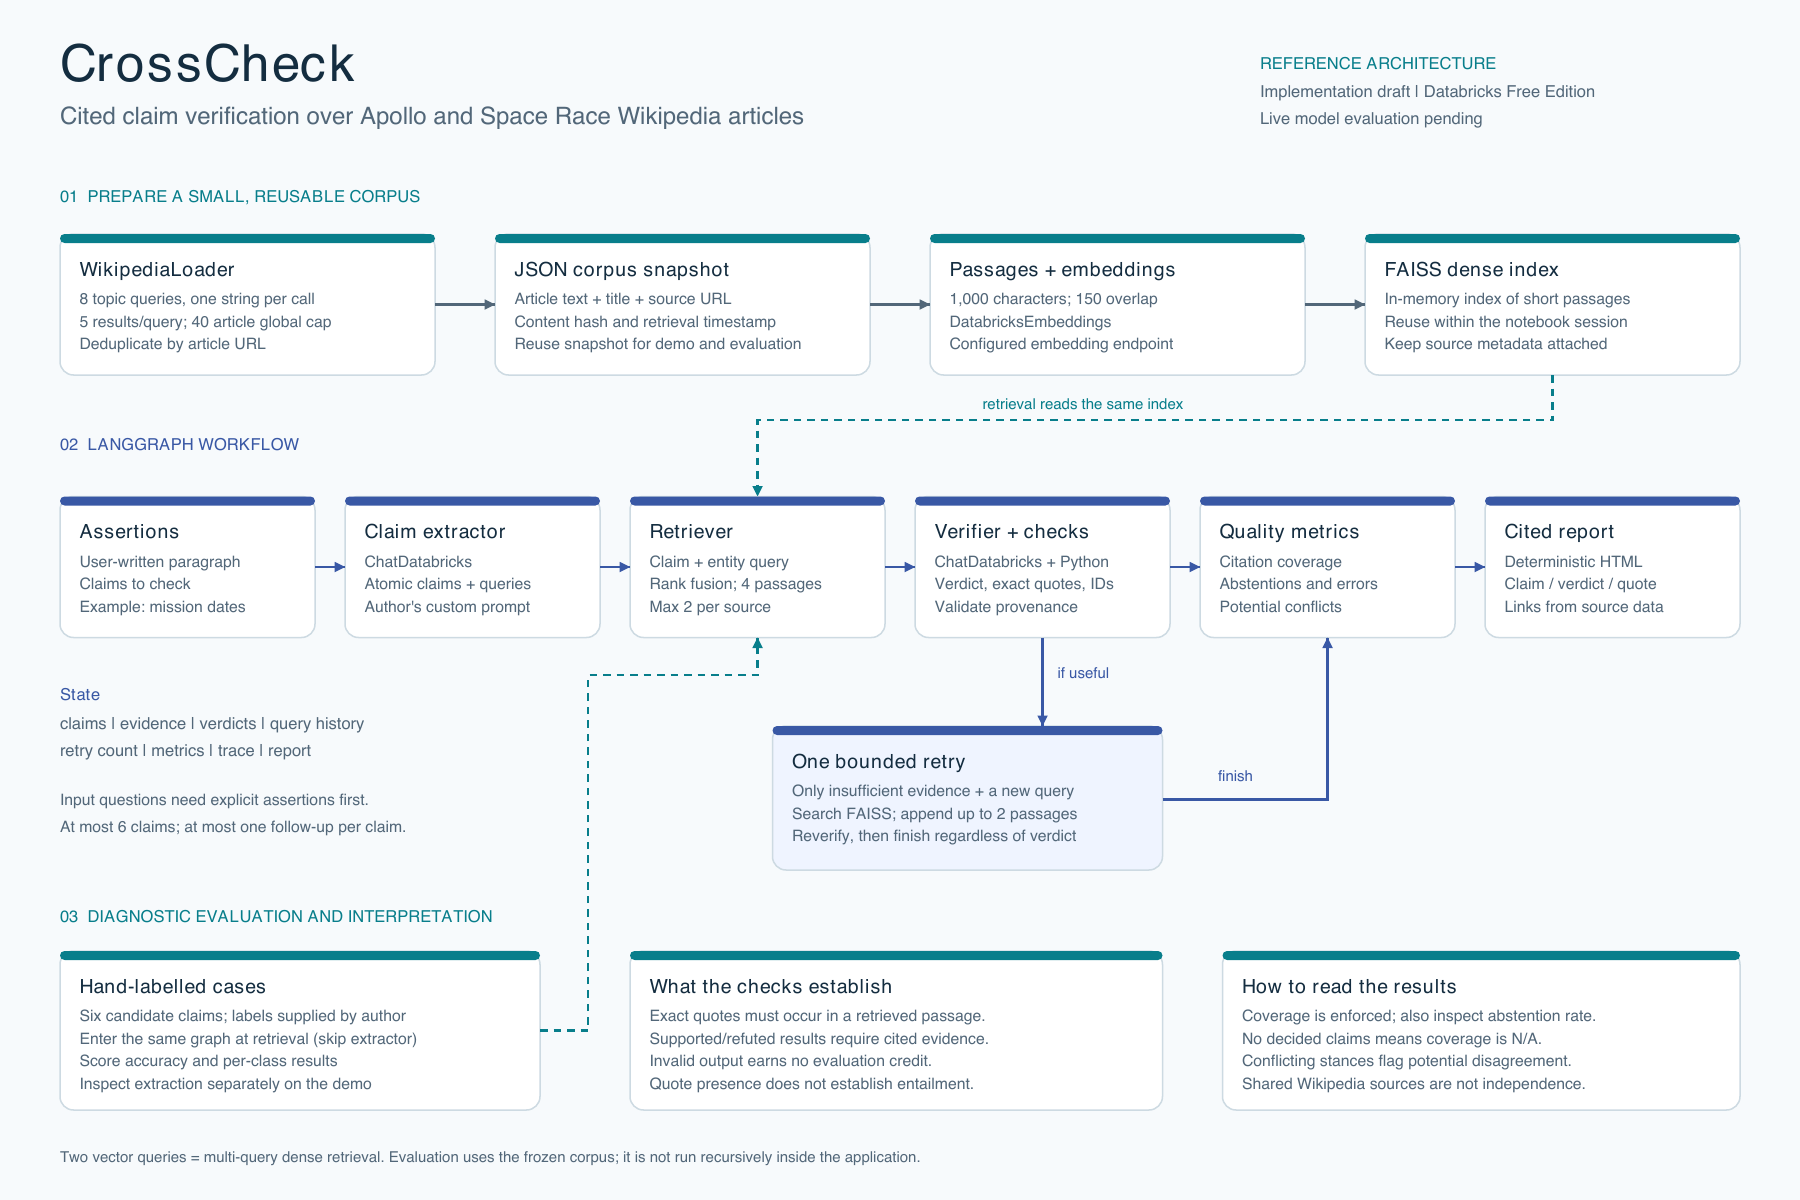
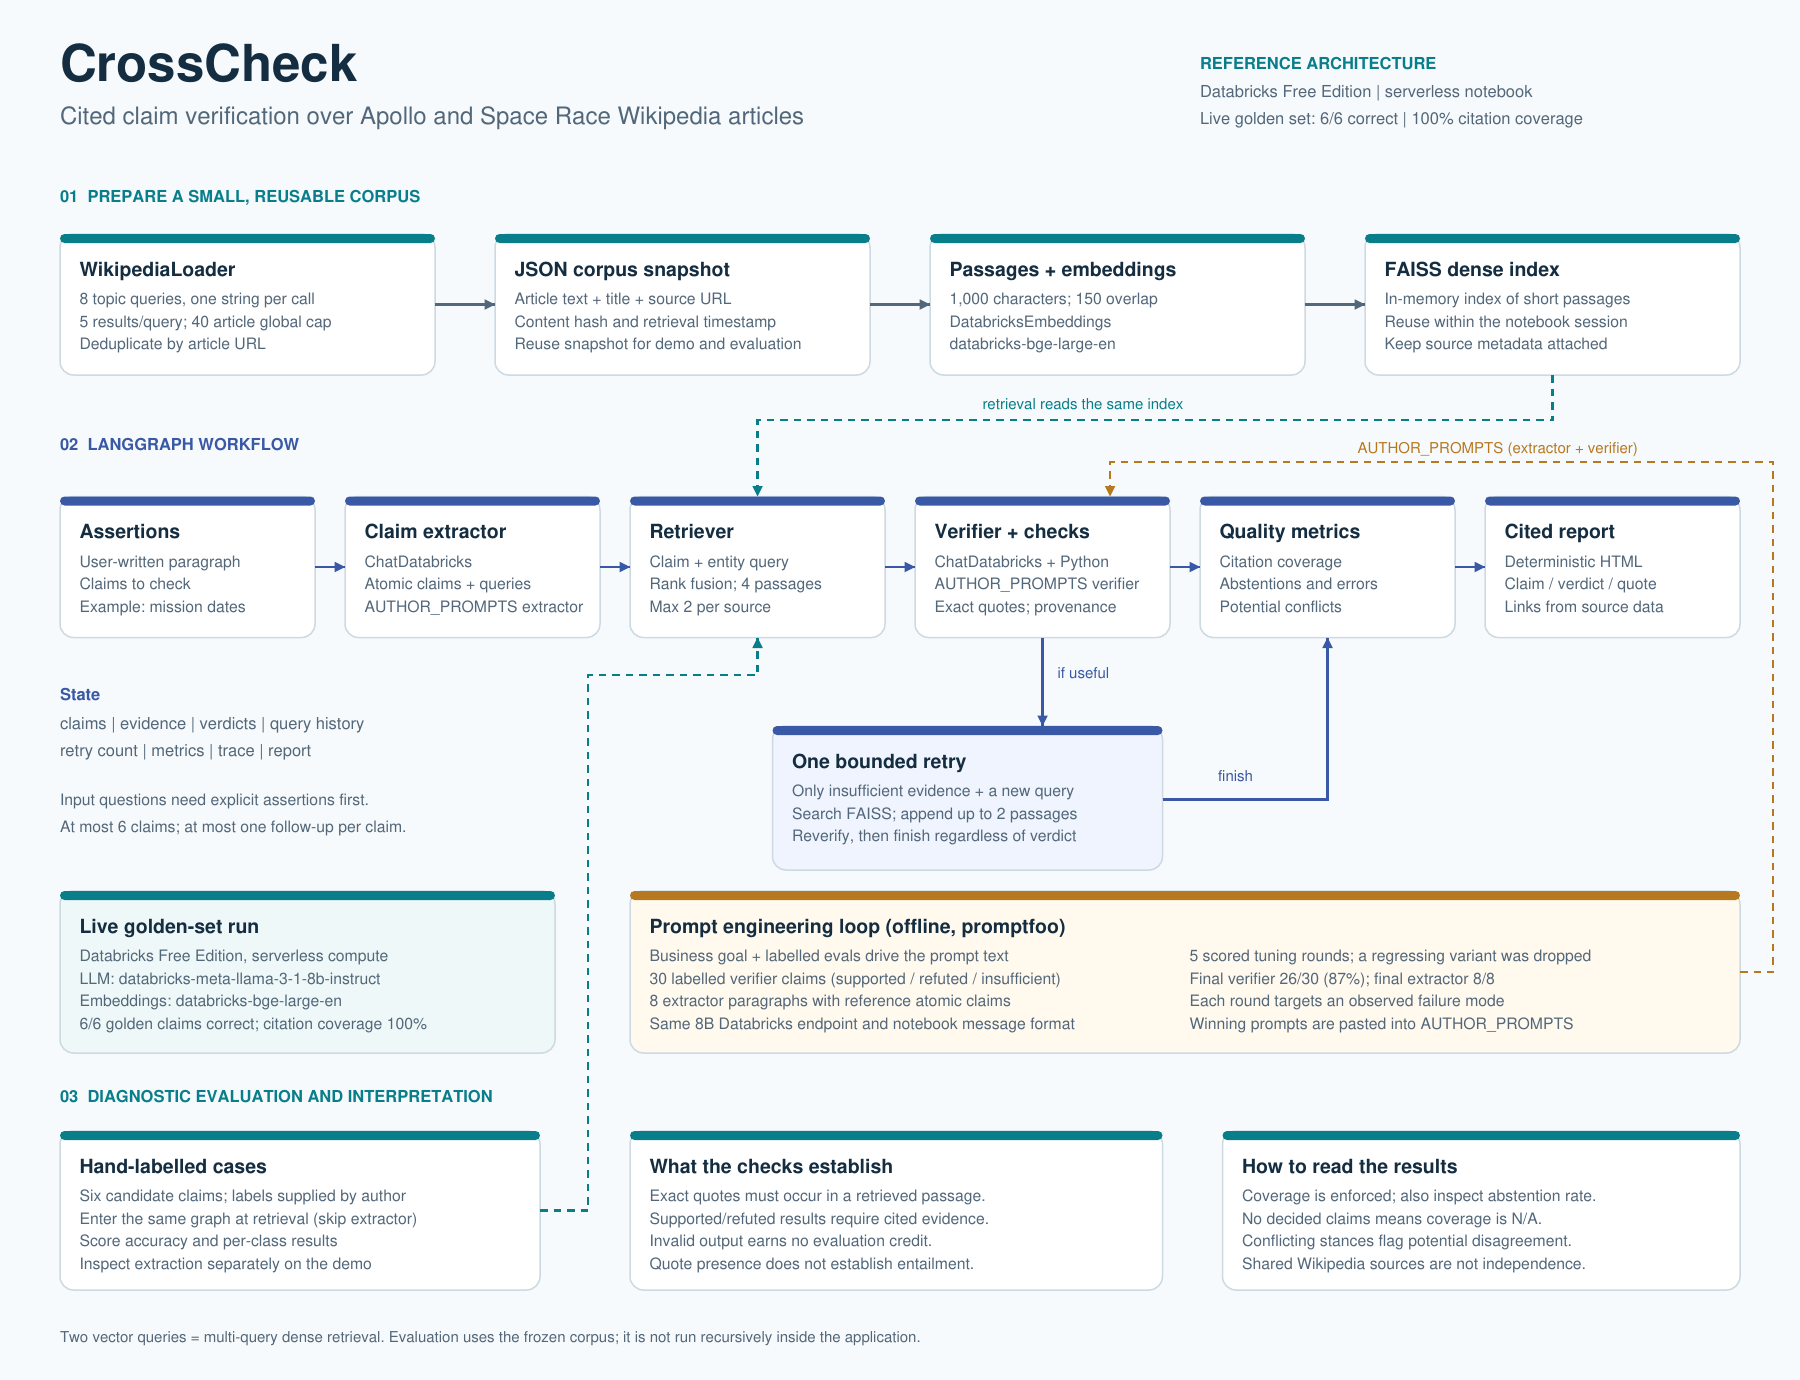
Update reference architecture: promptfoo prompt loop and live Databricks result
- Remove 'Implementation draft' / 'Live model evaluation pending' wording
- Add offline promptfoo prompt-engineering loop feeding AUTHOR_PROMPTS
  (30 verifier claims, 8 extractor paragraphs, 5 rounds; verifier 26/30, extractor 8/8)
- Add live golden-set result on Databricks Free Edition serverless (6/6, 100% coverage)
- Move Wikipedia user-agent into load_corpus so the embedded notebook cell
  matches crosscheck/corpus.py again (fixes check_notebook.py)

diff --git a/scripts/build_architecture.py b/scripts/build_architecture.py
@@ -7,14 +7,17 @@ from reportlab.lib.colors import HexColor, Color
 ROOT = Path(__file__).resolve().parents[1]
 OUT = ROOT / "output/pdf/crosscheck-architecture.pdf"
 OUT.parent.mkdir(parents=True, exist_ok=True)
-c = canvas.Canvas(str(OUT), pagesize=(1200, 800))
+H = 920  # page height; rows above the evaluation band are shifted up by D
+D = 120
+c = canvas.Canvas(str(OUT), pagesize=(1200, H))
 c.setTitle("CrossCheck - reference architecture")
-c.setAuthor("Aimpoint assessment working draft")
+c.setAuthor("Alfred Nutile")
 INK = HexColor("#142D40")
 MUTED = HexColor("#526779")
 TEAL = HexColor("#087E8B")
 BLUE = HexColor("#3958A5")
 BORDER = HexColor("#CDDAE2")
+GOLD = HexColor("#B7791F")
 
 
 def text(x, y, value, size=11, color=INK, bold=False):
@@ -60,47 +63,57 @@ def arrow(points, color=MUTED, dashed=False):
 
 
 c.setFillColor(HexColor("#F7FAFC"))
-c.rect(0, 0, 1200, 800, fill=1, stroke=0)
-text(40, 746, "CrossCheck", 34, bold=True)
-text(40, 717, "Cited claim verification over Apollo and Space Race Wikipedia articles", 16, MUTED)
-text(840, 754, "REFERENCE ARCHITECTURE", 11, TEAL, True)
-text(840, 735, "Implementation draft | Databricks Free Edition", 11, MUTED)
-text(840, 717, "Live model evaluation pending", 11, MUTED)
+c.rect(0, 0, 1200, H, fill=1, stroke=0)
+text(40, 746+D, "CrossCheck", 34, bold=True)
+text(40, 717+D, "Cited claim verification over Apollo and Space Race Wikipedia articles", 16, MUTED)
+text(800, 754+D, "REFERENCE ARCHITECTURE", 11, TEAL, True)
+text(800, 735+D, "Databricks Free Edition | serverless notebook", 11, MUTED)
+text(800, 717+D, "Live golden set: 6/6 correct | 100% citation coverage", 11, MUTED)
 
-text(40, 665, "01  PREPARE A SMALL, REUSABLE CORPUS", 11, TEAL, True)
-box(40, 550, 250, 94, "WikipediaLoader", ["8 topic queries, one string per call", "5 results/query; 40 article global cap", "Deduplicate by article URL"])
-box(330, 550, 250, 94, "JSON corpus snapshot", ["Article text + title + source URL", "Content hash and retrieval timestamp", "Reuse snapshot for demo and evaluation"])
-box(620, 550, 250, 94, "Passages + embeddings", ["1,000 characters; 150 overlap", "DatabricksEmbeddings", "Configured embedding endpoint"])
-box(910, 550, 250, 94, "FAISS dense index", ["In-memory index of short passages", "Reuse within the notebook session", "Keep source metadata attached"])
+text(40, 665+D, "01  PREPARE A SMALL, REUSABLE CORPUS", 11, TEAL, True)
+box(40, 550+D, 250, 94, "WikipediaLoader", ["8 topic queries, one string per call", "5 results/query; 40 article global cap", "Deduplicate by article URL"])
+box(330, 550+D, 250, 94, "JSON corpus snapshot", ["Article text + title + source URL", "Content hash and retrieval timestamp", "Reuse snapshot for demo and evaluation"])
+box(620, 550+D, 250, 94, "Passages + embeddings", ["1,000 characters; 150 overlap", "DatabricksEmbeddings", "databricks-bge-large-en"])
+box(910, 550+D, 250, 94, "FAISS dense index", ["In-memory index of short passages", "Reuse within the notebook session", "Keep source metadata attached"])
 for left in (290, 580, 870):
-    arrow([(left, 597), (left+40, 597)])
+    arrow([(left, 597+D), (left+40, 597+D)])
 
-text(40, 500, "02  LANGGRAPH WORKFLOW", 11, BLUE, True)
-arrow([(1035, 550), (1035, 520), (505, 520), (505, 469)], TEAL, True)
-text(655, 527, "retrieval reads the same index", 10, TEAL)
-box(40, 375, 170, 94, "Assertions", ["User-written paragraph", "Claims to check", "Example: mission dates"], BLUE)
-box(230, 375, 170, 94, "Claim extractor", ["ChatDatabricks", "Atomic claims + queries", "Author's custom prompt"], BLUE)
-box(420, 375, 170, 94, "Retriever", ["Claim + entity query", "Rank fusion; 4 passages", "Max 2 per source"], BLUE)
-box(610, 375, 170, 94, "Verifier + checks", ["ChatDatabricks + Python", "Verdict, exact quotes, IDs", "Validate provenance"], BLUE)
-box(800, 375, 170, 94, "Quality metrics", ["Citation coverage", "Abstentions and errors", "Potential conflicts"], BLUE)
-box(990, 375, 170, 94, "Cited report", ["Deterministic HTML", "Claim / verdict / quote", "Links from source data"], BLUE)
+text(40, 500+D, "02  LANGGRAPH WORKFLOW", 11, BLUE, True)
+arrow([(1035, 550+D), (1035, 520+D), (505, 520+D), (505, 469+D)], TEAL, True)
+text(655, 527+D, "retrieval reads the same index", 10, TEAL)
+box(40, 375+D, 170, 94, "Assertions", ["User-written paragraph", "Claims to check", "Example: mission dates"], BLUE)
+box(230, 375+D, 170, 94, "Claim extractor", ["ChatDatabricks", "Atomic claims + queries", "AUTHOR_PROMPTS extractor"], BLUE)
+box(420, 375+D, 170, 94, "Retriever", ["Claim + entity query", "Rank fusion; 4 passages", "Max 2 per source"], BLUE)
+box(610, 375+D, 170, 94, "Verifier + checks", ["ChatDatabricks + Python", "AUTHOR_PROMPTS verifier", "Exact quotes; provenance"], BLUE)
+box(800, 375+D, 170, 94, "Quality metrics", ["Citation coverage", "Abstentions and errors", "Potential conflicts"], BLUE)
+box(990, 375+D, 170, 94, "Cited report", ["Deterministic HTML", "Claim / verdict / quote", "Links from source data"], BLUE)
 for left in (210, 400, 590, 780, 970):
-    arrow([(left, 422), (left+20, 422)], BLUE)
+    arrow([(left, 422+D), (left+20, 422+D)], BLUE)
 
-box(515, 220, 260, 96, "One bounded retry", ["Only insufficient evidence + a new query", "Search FAISS; append up to 2 passages", "Reverify, then finish regardless of verdict"], BLUE, "#EFF4FF")
-arrow([(695, 375), (695, 316)], BLUE)
-text(705, 348, "if useful", 10, BLUE)
-arrow([(775, 267), (885, 267), (885, 375)], BLUE)
-text(812, 279, "finish", 10, BLUE)
-text(40, 333, "State", 11, BLUE, True)
-text(40, 314, "claims | evidence | verdicts | query history", 11, MUTED)
-text(40, 296, "retry count | metrics | trace | report", 11, MUTED)
-text(40, 263, "Input questions need explicit assertions first.", 10.5, MUTED)
-text(40, 245, "At most 6 claims; at most one follow-up per claim.", 10.5, MUTED)
+box(515, 220+D, 260, 96, "One bounded retry", ["Only insufficient evidence + a new query", "Search FAISS; append up to 2 passages", "Reverify, then finish regardless of verdict"], BLUE, "#EFF4FF")
+arrow([(695, 375+D), (695, 316+D)], BLUE)
+text(705, 348+D, "if useful", 10, BLUE)
+arrow([(775, 267+D), (885, 267+D), (885, 375+D)], BLUE)
+text(812, 279+D, "finish", 10, BLUE)
+text(40, 333+D, "State", 11, BLUE, True)
+text(40, 314+D, "claims | evidence | verdicts | query history", 11, MUTED)
+text(40, 296+D, "retry count | metrics | trace | report", 11, MUTED)
+text(40, 263+D, "Input questions need explicit assertions first.", 10.5, MUTED)
+text(40, 245+D, "At most 6 claims; at most one follow-up per claim.", 10.5, MUTED)
+
+# Live run on Databricks (left) and the offline prompt-engineering loop (right).
+box(40, 218, 330, 108, "Live golden-set run", ["Databricks Free Edition, serverless compute", "LLM: databricks-meta-llama-3-1-8b-instruct", "Embeddings: databricks-bge-large-en", "6/6 golden claims correct; citation coverage 100%"], TEAL, "#EEF8F8")
+box(420, 218, 740, 108, "Prompt engineering loop (offline, promptfoo)", [], GOLD, "#FFF9EE")
+for i, line in enumerate(["Business goal + labelled evals drive the prompt text", "30 labelled verifier claims (supported / refuted / insufficient)", "8 extractor paragraphs with reference atomic claims", "Same 8B Databricks endpoint and notebook message format"]):
+    text(433, 218+108-47-i*15, line, 10.5, MUTED)
+for i, line in enumerate(["5 scored tuning rounds; a regressing variant was dropped", "Final verifier 26/30 (87%); final extractor 8/8", "Each round targets an observed failure mode", "Winning prompts are pasted into AUTHOR_PROMPTS"]):
+    text(793, 218+108-47-i*15, line, 10.5, MUTED)
+arrow([(1160, 272), (1182, 272), (1182, 612), (740, 612), (740, 589)], GOLD, True)
+text(905, 618, "AUTHOR_PROMPTS (extractor + verifier)", 10, GOLD)
 
 text(40, 185, "03  DIAGNOSTIC EVALUATION AND INTERPRETATION", 11, TEAL, True)
 box(40, 60, 320, 106, "Hand-labelled cases", ["Six candidate claims; labels supplied by author", "Enter the same graph at retrieval (skip extractor)", "Score accuracy and per-class results", "Inspect extraction separately on the demo"], TEAL)
-arrow([(360, 113), (392, 113), (392, 350), (505, 350), (505, 375)], TEAL, True)
+arrow([(360, 113), (392, 113), (392, 470), (505, 470), (505, 495)], TEAL, True)
 box(420, 60, 355, 106, "What the checks establish", ["Exact quotes must occur in a retrieved passage.", "Supported/refuted results require cited evidence.", "Invalid output earns no evaluation credit.", "Quote presence does not establish entailment."], TEAL)
 box(815, 60, 345, 106, "How to read the results", ["Coverage is enforced; also inspect abstention rate.", "No decided claims means coverage is N/A.", "Conflicting stances flag potential disagreement.", "Shared Wikipedia sources are not independence."], TEAL)
 text(40, 25, "Two vector queries = multi-query dense retrieval. Evaluation uses the frozen corpus; it is not run recursively inside the application.", 10, MUTED)

diff --git a/crosscheck/corpus.py b/crosscheck/corpus.py
@@ -11,6 +11,13 @@ def load_corpus(query_terms, max_docs=40, per_query=5, chars_per_article=6000,
     from langchain_community.document_loaders import WikipediaLoader
     from langchain_core.documents import Document
 
+    # Wikipedia returns 403 to requests without a descriptive User-Agent.
+    try:
+        import wikipedia
+        wikipedia.set_user_agent("CrossCheck/0.1 (alfrednutile@gmail.com)")
+    except ImportError:  # offline tests stub the loader and skip the package
+        pass
+
     if not query_terms or any(not isinstance(q, str) or not q.strip() for q in query_terms):
         raise ValueError("query_terms must contain nonempty strings.")
     if max_docs < 1 or per_query < 1:

diff --git a/README.md b/README.md
@@ -28,7 +28,7 @@ not a completed or executed submission.
 ## Files
 
 - `01_agentic_wikipedia_aimpoint_interview.ipynb`: primary importable notebook.
-- `output/pdf/crosscheck-architecture.pdf`: one-page reference architecture draft.
+- `output/pdf/crosscheck-architecture.pdf`: one-page reference architecture (rendered by `scripts/build_architecture.py`).
 - `output/crosscheck-architecture.png`: image version of the architecture.
 - `output/crosscheck-architecture.mmd`: editable Mermaid diagram.
 - `crosscheck/workflow.py`: editable workflow implementation, embedded in the notebook.
